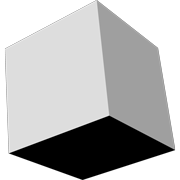
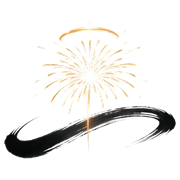
feat(site): 换成烟火标志并去掉页脚主题署名
导航和站点图标改用烟火图，页脚不再显示 Hexo 与致远署名。

diff --git a/hexo/themes/tranquility/README.md b/hexo/themes/tranquility/README.md
@@ -1,5 +1,5 @@
 
-<h1> <div align="center"><img align="center" height="40" src="source/images/tranquility.svg"/> 致远</div></h1>
+<h1> <div align="center"><img align="center" height="40" src="source/images/logo.png"/> 致远</div></h1>
 
 <p align="center">致远是一款 Hexo 主题，专门为个人主页及多学科领域博主设计</p>
 
